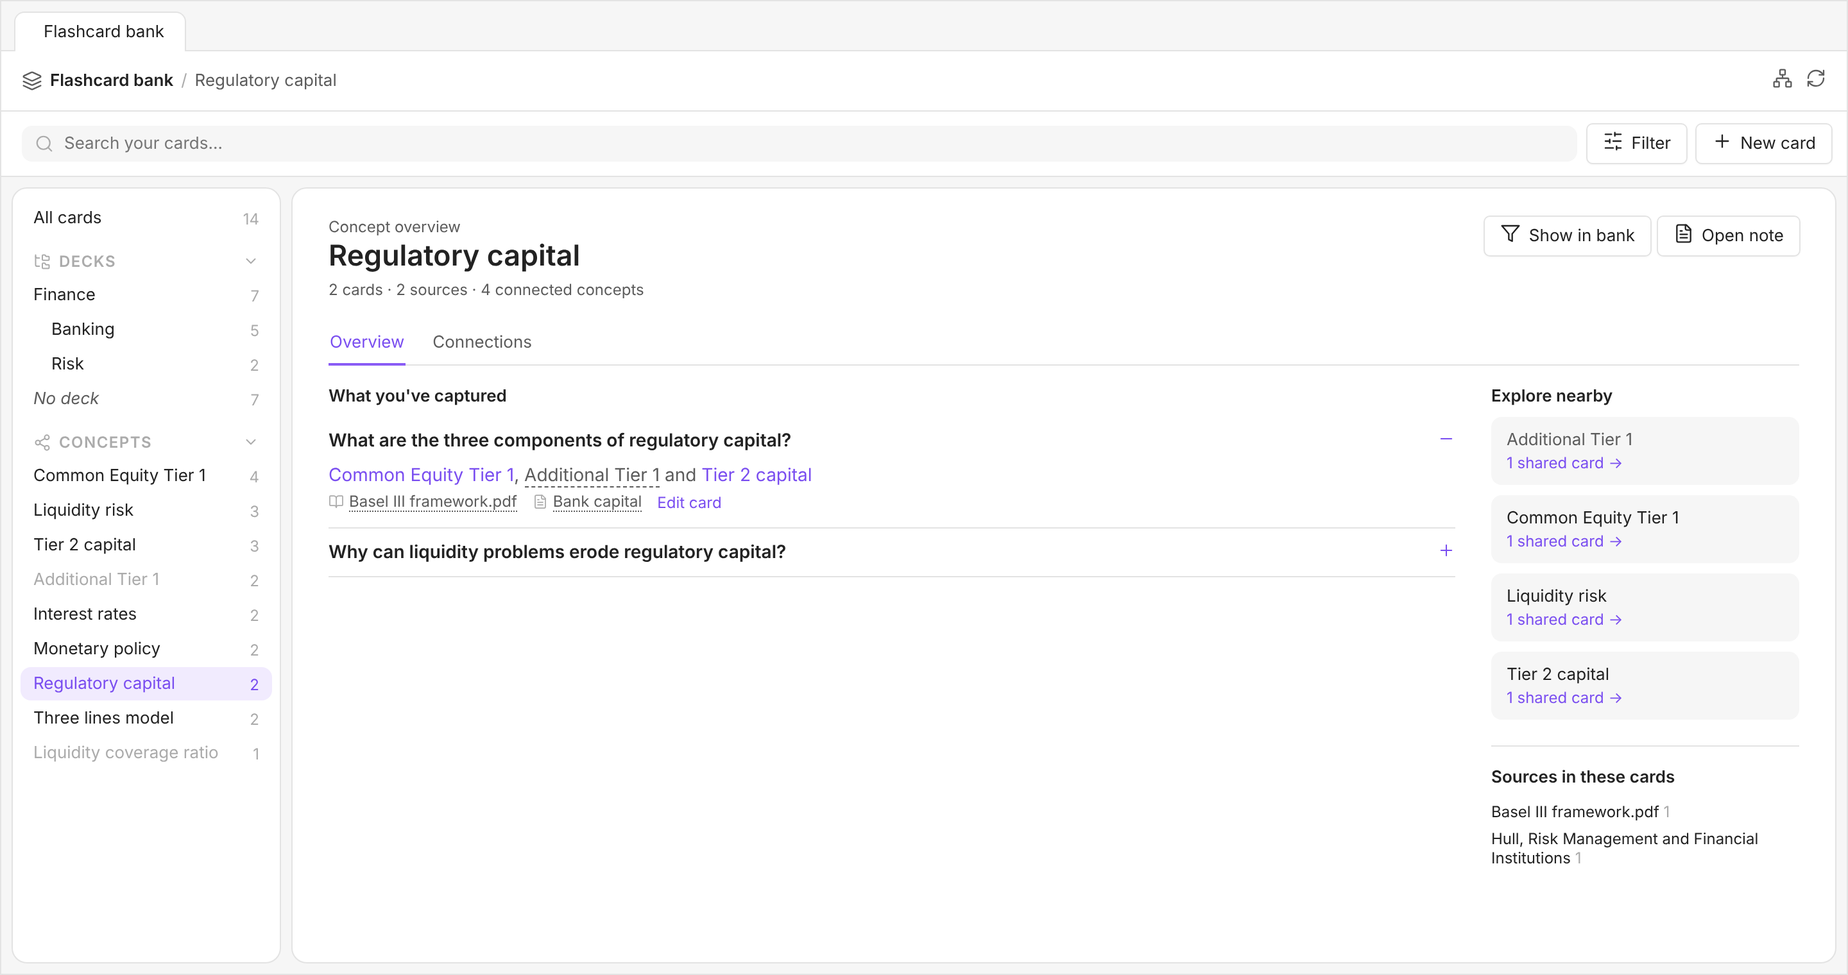
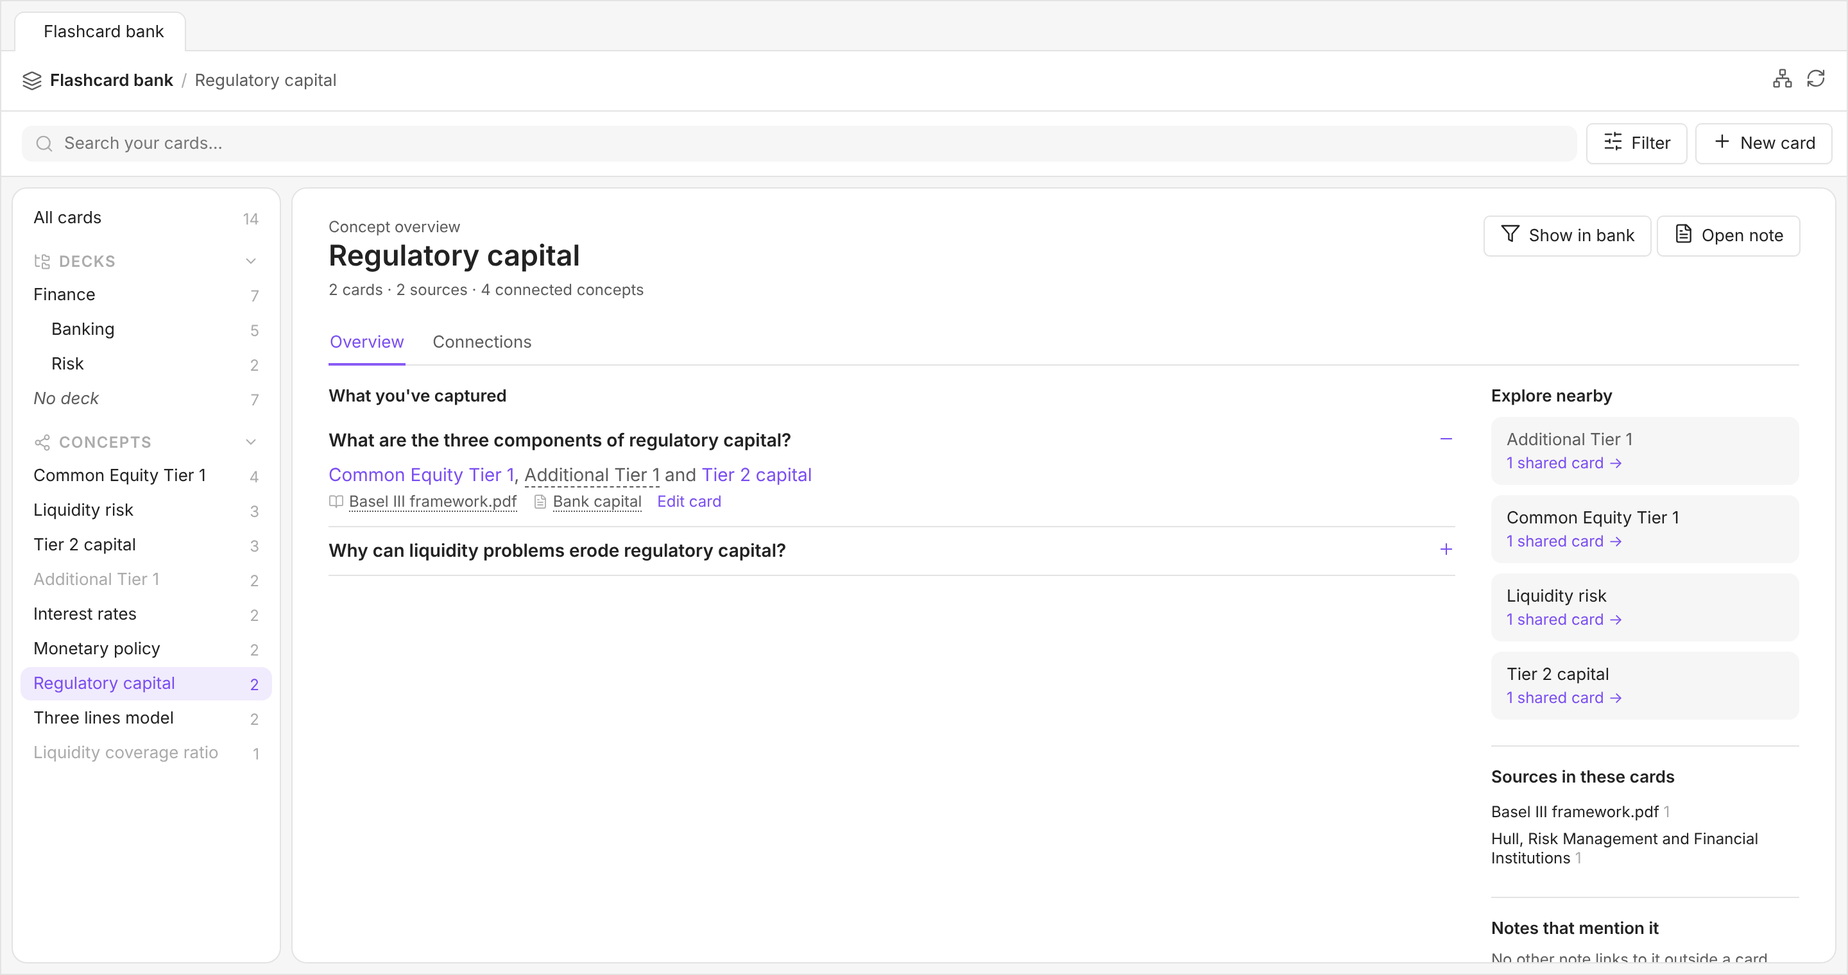
Release 1.4.0: notes that mention a concept, unanswered cards
- Concept pages list the notes that link to the concept outside their
  cards (Obsidian's resolved/unresolved links, matched like concepts;
  own note and excluded folders left out), counted in the stats line.
- Cards without an answer show "No answer yet" in the list; on concept
  pages with an "Answer it" link that opens the editor on the answer.
- Unanswered filter in the left panel, combinable with the others.
- Anki sync summary lists cards going to Anki without an answer.
- Folds in the unreleased 1.3.2 changes (labelled source/note links,
  filters bring back the list, map card goes back to the list).

Claude-Session: https://claude.ai/code/session_01W1zU3KSTWW1uK9WF7pcnHM

Changed region(s): [[0.1875, 0.5566, 0.4375, 0.5875], [0.8125, 0.9276, 0.9062, 0.9895]]

diff --git a/src/view.ts b/src/view.ts
@@ -32,6 +32,7 @@ export class BankView extends ItemView {
   private query = "";
   private concept = ""; // concept key, NO_CONCEPT, or "" for all
   private deck: string | null = null; // a deck (with its sub-decks), "" for cards without a deck, or null for all
+  private unanswered = false; // only cards without an answer
   private source = "";
   private note = "";
   private filtersOpen = false;
@@ -189,6 +190,9 @@ export class BankView extends ItemView {
     ro.observe(this.bodyEl);
     this.register(() => ro.disconnect());
 
+    // "Notes that mention it" on a concept page reads Obsidian's links, which change outside the cards too.
+    this.registerEvent(this.app.metadataCache.on("resolved", () => { if (this.pageKey) this.renderPage(); }));
+
     this.unsubscribe = this.store.onChange(() => {
       try {
         this.onStoreChange();
@@ -304,7 +308,7 @@ export class BankView extends ItemView {
     const home = el.createSpan({ cls: "bt-crumbs-home", text: "Flashcard bank" });
     const here = this.pageKey
       ? this.conceptName(this.pageKey)
-      : [this.deck === null ? "" : this.deckName(this.deck), this.concept ? this.conceptName(this.concept) : ""].filter(Boolean).join(" · ") || "All cards";
+      : [this.unanswered ? "Unanswered" : "", this.deck === null ? "" : this.deckName(this.deck), this.concept ? this.conceptName(this.concept) : ""].filter(Boolean).join(" · ") || "All cards";
     if (this.pageKey) {
       home.addClass("is-link");
       home.addEventListener("click", () => this.closePage());
@@ -350,7 +354,8 @@ export class BankView extends ItemView {
   }
 
   /** Does the card pass the filters? `skip` leaves out one of them (to count cards for its own list). */
-  private matches(c: Card, skip?: "deck" | "concept"): boolean {
+  private matches(c: Card, skip?: "deck" | "concept" | "unanswered"): boolean {
+    if (this.unanswered && skip !== "unanswered" && c.a.trim()) return false;
     if (this.concept && skip !== "concept" && !this.inConcept(c, this.concept)) return false;
     if (this.deck !== null && skip !== "deck" && !this.inDeck(c, this.deck)) return false;
     if (this.source && !this.store.sourcesOf(c).includes(this.source)) return false;
@@ -417,7 +422,14 @@ export class BankView extends ItemView {
     side.empty();
     const all = side.createDiv({ cls: "bt-tree bt-tree-all" });
     this.conceptsEl = all;
-    this.conceptRow("", "All cards", cards.length, "", !this.pageKey && !this.concept && this.deck === null, () => this.showAll());
+    this.conceptRow("", "All cards", cards.length, "", !this.pageKey && !this.concept && this.deck === null && !this.unanswered, () => this.showAll());
+    if (cards.some((c) => !c.a.trim())) {
+      const n = cards.filter((c) => !c.a.trim() && this.matches(c, "unanswered")).length;
+      const row = this.treeRow(all, "Unanswered", n, "bt-unanswered-row" + (n ? "" : " is-empty"), this.unanswered, () => this.setUnanswered(!this.unanswered));
+      setIcon(row.createSpan({ cls: "bt-tree-icon" }), "help-circle");
+      row.prepend(row.lastChild!);
+      row.setAttr("title", "Cards without an answer yet");
+    }
 
     // Decks (only when some card has one).
     if (decks.size) {
@@ -499,6 +511,7 @@ export class BankView extends ItemView {
   private showAll(): void {
     this.concept = "";
     this.deck = null;
+    this.unanswered = false;
     this.showList();
     if (this.pageKey) this.closePage();
     else {
@@ -510,6 +523,15 @@ export class BankView extends ItemView {
   /** Filter the bank by a concept (clicking the active one again clears it). Combines with the deck filter. */
   private setConcept(key: string): void {
     this.concept = this.concept === key && key !== "" ? "" : key;
+    this.showList();
+    if (this.pageKey) this.closePage(false);
+    this.renderConcepts();
+    this.renderList();
+  }
+
+  /** Show only the cards without an answer (combines with every other filter). */
+  private setUnanswered(on: boolean): void {
+    this.unanswered = on;
     this.showList();
     if (this.pageKey) this.closePage(false);
     this.renderConcepts();
@@ -547,6 +569,7 @@ export class BankView extends ItemView {
       setIcon(x, "x");
       x.addEventListener("click", clear);
     };
+    if (this.unanswered) chip("help-circle", "Unanswered", () => this.setUnanswered(false));
     if (this.deck !== null) chip("folder-tree", this.deckName(this.deck), () => this.setDeck(null));
     if (this.concept) {
       const key = this.concept;
@@ -568,7 +591,12 @@ export class BankView extends ItemView {
     const key = cardKey(c);
     const row = parent.createDiv({ cls: "bt-card" + (key === this.selKey ? " is-active" : "") });
     row.createDiv({ cls: "bt-card-q", text: readable(c.q) || "(no question)" });
-    if (c.a) row.createDiv({ cls: "bt-card-a", text: readable(c.a) });
+    if (c.a.trim()) row.createDiv({ cls: "bt-card-a", text: readable(c.a) });
+    else {
+      const na = row.createDiv({ cls: "bt-card-na" });
+      setIcon(na.createSpan(), "help-circle");
+      na.createSpan({ text: "No answer yet" });
+    }
     if (this.cfg.density === "expanded") {
       this.metaItems(row.createDiv({ cls: "bt-card-meta" }), c, true);
     }
@@ -586,7 +614,7 @@ export class BankView extends ItemView {
     const item = (icon: string, title: string) => {
       const i = el.createSpan({ cls: "bt-meta-item", attr: { "aria-label": title } });
       setIcon(i.createSpan({ cls: "bt-meta-icon" }), icon);
-      return i;
+      return i.createSpan({ cls: "bt-meta-val" }); // the text runs inline inside, so "[[A]], b" reads naturally
     };
     const link = (parent: HTMLElement, text: string, title: string, go: () => void) => {
       const a = parent.createSpan({ cls: "bt-meta-link", text });
@@ -745,13 +773,15 @@ export class BankView extends ItemView {
   }
 
   /** Leave the page and open a card in the editor, with the list showing the page's concept. */
-  private editFromPage(c: Card): void {
+  private editFromPage(c: Card, toAnswer = false): void {
     if (this.pageKey) {
       this.concept = this.pageKey;
       if (this.deck !== null && !this.inDeck(c, this.deck)) this.deck = null; // keep the card in sight
+      if (this.unanswered && c.a.trim()) this.unanswered = false;
       this.closePage();
     }
     this.selectCard(c);
+    if (toAnswer) this.editorEl.querySelector<HTMLElement>(".bt-a")?.focus();
   }
 
   private conceptCards(key: string): Card[] {
@@ -798,9 +828,10 @@ export class BankView extends ItemView {
     titles.createDiv({ cls: "bt-page-kicker", text: "Concept overview" });
     const h = titles.createDiv({ cls: "bt-page-title", text: k.name });
     if (!k.exists) h.createSpan({ cls: "bt-page-ghost", text: "no note yet" });
+    const mentions = this.notesMentioning(k);
     titles.createDiv({
       cls: "bt-page-stats",
-      text: [plural(cards.length, "card"), plural(sources.size, "source"), plural(near.length, "connected concept")].join(" · "),
+      text: [plural(cards.length, "card"), plural(sources.size, "source"), plural(near.length, "connected concept"), mentions.length ? plural(mentions.length, "note") : ""].filter(Boolean).join(" · "),
     });
     const acts = head.createDiv({ cls: "bt-page-actions" });
     const show = acts.createEl("button");
@@ -856,6 +887,15 @@ export class BankView extends ItemView {
           this.renderList();
         });
       }
+      side.createDiv({ cls: "bt-page-h bt-page-h-gap", text: "Notes that mention it" });
+      if (!mentions.length) side.createDiv({ cls: "bt-muted", text: "No other note links to it outside a card." });
+      for (const f of mentions) {
+        const row = side.createDiv({ cls: "bt-page-note" });
+        setIcon(row.createSpan(), "file-text");
+        row.createSpan({ text: f.basename });
+        row.setAttr("title", f.path);
+        row.addEventListener("click", () => { void this.app.workspace.getLeaf("tab").openFile(f); });
+      }
     } else {
       const box = el.createDiv({ cls: "bt-conns" });
       box.createDiv({ cls: "bt-muted bt-conns-hint", text: "Cards that link " + k.name + " to another concept. Open a card to read its answer, or click a concept to go to its page." });
@@ -874,6 +914,40 @@ export class BankView extends ItemView {
     el.scrollTop = keep;
   }
 
+  /**
+   * The notes that link to a concept outside their cards, alphabetically. Links
+   * are matched like concepts (display names and headings lead to the same note;
+   * a concept without a note is matched by name). The concept's own note and
+   * excluded folders are left out.
+   */
+  private notesMentioning(k: Concept): TFile[] {
+    const mc = this.app.metadataCache;
+    const sources = new Set<string>();
+    if (k.exists) {
+      for (const [src, dests] of Object.entries(mc.resolvedLinks)) if (dests[k.key]) sources.add(src);
+    } else {
+      for (const [src, dests] of Object.entries(mc.unresolvedLinks)) {
+        if (Object.keys(dests).some((d) => this.store.conceptOf({ raw: d, linkpath: d.split("#")[0] ?? d, blockId: null, alias: "" }, src).key === k.key)) sources.add(src);
+      }
+    }
+    const out: TFile[] = [];
+    for (const path of sources) {
+      if (path === k.key || this.store.excluded(path)) continue;
+      const f = this.app.vault.getAbstractFileByPath(path);
+      if (!(f instanceof TFile)) continue;
+      const cards = this.store.byPath.get(path) || [];
+      const inCard = (line: number) => cards.some((c) => line >= c.line && line <= c.endLine);
+      const links = mc.getFileCache(f)?.links || [];
+      const outside = links.some((l) => {
+        if (inCard(l.position.start.line) || l.link.includes("#^")) return false; // inside a card, or a link to a card
+        const linkpath = l.link.split("#")[0] ?? "";
+        return !!linkpath.trim() && this.store.conceptOf({ raw: l.original, linkpath, blockId: null, alias: "" }, path).key === k.key;
+      });
+      if (outside) out.push(f);
+    }
+    return out.sort((a, b) => a.basename.localeCompare(b.basename));
+  }
+
   /** A card on the concept page: the question, with the answer and its details shown on click. */
   private pageCard(parent: HTMLElement, c: Card, mark: string, where: string): void {
     const key = where + "\n" + cardKey(c); // the same card can show in several places, each opens on its own
@@ -883,7 +957,14 @@ export class BankView extends ItemView {
     head.createSpan({ cls: "bt-pc-q", text: readable(c.q) || "(no question)" });
     const tog = head.createSpan({ cls: "bt-pc-toggle" });
     const body = item.createDiv({ cls: "bt-pc-body" });
-    this.richText(body.createDiv({ cls: "bt-pc-a" }), c.a || "(no answer)", c.path);
+    if (c.a.trim()) this.richText(body.createDiv({ cls: "bt-pc-a" }), c.a, c.path);
+    else {
+      const na = body.createDiv({ cls: "bt-pc-na" });
+      setIcon(na.createSpan(), "help-circle");
+      na.createSpan({ text: "No answer yet · " });
+      const go = na.createSpan({ cls: "bt-pc-answer", text: "Answer it" });
+      go.addEventListener("click", (e) => { e.stopPropagation(); this.editFromPage(c, true); });
+    }
     const meta = body.createDiv({ cls: "bt-pc-meta" });
     this.metaItems(meta, c, false);
     const edit = meta.createSpan({ cls: "bt-pc-edit", text: "Edit card" });

diff --git a/styles.css b/styles.css
@@ -238,6 +238,16 @@
 .bt-card.is-active { background: var(--bt-tint); border-left-color: var(--interactive-accent); }
 .bt-card-q { font-weight: var(--font-semibold); }
 .bt-card-a { color: var(--text-muted); font-size: var(--font-ui-small); margin-top: 2px; }
+.bt-card-na, .bt-pc-na { display: flex; align-items: center; gap: 5px; font-style: italic; color: var(--text-faint); font-size: var(--font-ui-small); margin-top: 2px; }
+.bt-card-na svg, .bt-pc-na svg { width: 13px; height: 13px; }
+.bt-pc-answer { font-style: normal; color: var(--text-accent); cursor: pointer; }
+.bt-pc-answer:hover { text-decoration: underline; }
+.bt-tree-row .bt-tree-icon { display: inline-flex; color: var(--text-faint); }
+.bt-tree-row.is-active .bt-tree-icon { color: var(--text-accent); }
+.bt-root .bt-tree-icon svg { width: 14px; height: 14px; }
+.bt-page-note { display: flex; align-items: center; gap: 6px; font-size: var(--font-ui-smaller); padding: 3px 0; cursor: pointer; }
+.bt-page-note:hover { color: var(--text-accent); }
+.bt-page-note svg { width: 13px; height: 13px; flex: none; color: var(--text-faint); }
 .bt-list:not(.is-expanded) .bt-card-q,
 .bt-list:not(.is-expanded) .bt-card-a { overflow: hidden; text-overflow: ellipsis; white-space: nowrap; }
 .bt-card-meta, .bt-pc-meta { display: flex; flex-wrap: wrap; align-items: center; gap: 4px 12px; font-size: var(--font-ui-smaller); color: var(--text-faint); margin-top: 4px; }
@@ -447,6 +457,8 @@ textarea.bt-input { resize: vertical; font-family: inherit; }
 .bt-sync-section ul { margin: 0; padding-left: 20px; font-size: var(--font-ui-small); color: var(--text-muted); }
 .bt-sync-danger { border-left: 3px solid var(--color-red); padding-left: 10px; }
 .bt-sync-danger .bt-sync-title { color: var(--color-red); }
+.bt-sync-warn { border-left: 3px solid var(--color-orange); padding-left: 10px; }
+.bt-sync-warn .bt-sync-title { color: var(--color-orange); }
 .bt-sync-section.is-muted { opacity: 0.75; }
 .bt-sync-more { font-style: italic; }
 .bt-sync-section.is-full ul { max-height: 220px; overflow-y: auto; }

diff --git a/src/ankiui.ts b/src/ankiui.ts
@@ -174,6 +174,13 @@ class SyncModal extends Modal {
       note: noteOf(u.card.key),
     })));
     this.section(el, "Will be re-created (their Anki note no longer exists)", p.recreate.map((c) => ({ text: c.q, note: noteOf(c.key) })));
+    // Cards going to Anki without an answer: they're synced, but their back will be empty.
+    const blank = p.create.concat(p.recreate, p.update.filter((u) => u.fields).map((u) => u.card))
+      .filter((c) => !c.back.trim())
+      .map((c) => ({ text: c.q, note: noteOf(c.key) }))
+      .concat(this.noId.filter((c) => !c.a.trim()).map((c) => ({ text: plainValue(c.q), note: noteOf(c.path) })));
+    const warn = this.section(el, "No answer yet: their back in Anki will be empty", blank, "is-warning", true);
+    warn?.addClass("bt-sync-warn");
     if (p.remove.length) {
       const items = p.remove.map((r) => ({
         text: r.q + (r.reason === "no-deck" ? " — its Deck was cleared" : " — no longer in Obsidian"),

diff --git a/README.md b/README.md
@@ -112,9 +112,9 @@ Since they're ordinary links, concepts also work outside the plugin: a concept n
 |------|--------------|
 | **Header** | Where you are (*All cards*, the deck and concept you're filtering by, or a concept page), plus two buttons: the **concept map** and **Sync with Anki**. |
 | **Search bar** | Searches questions, answers and every field. **Filter** opens a source filter (each linked file, plus any plain-text source) and a note filter; the button shows how many are on. **New card** opens an empty card. |
-| **Decks and concepts** (left) | *All cards* at the top shows the whole bank and clears the deck and concept filters. Below it, two sections you can fold (the plugin remembers which are open). **Decks** lists every Anki deck your cards use, with sub-decks indented under their parent (`Finance::Banking` under *Finance*); click one to show its cards, sub-decks included. *No deck* lists the cards that aren't synced with Anki. The section only appears when some card has a deck. **Concepts** lists every concept, most-used first: click a name to open its [concept page](#concept-pages), or the filter icon next to it to filter the list instead. *No concepts* lists the cards that don't link to any. |
+| **Decks and concepts** (left) | *All cards* at the top shows the whole bank and clears the deck, concept and *Unanswered* filters. *Unanswered*, right below it, shows the cards that don't have an answer yet (it appears when there's at least one). Below it, two sections you can fold (the plugin remembers which are open). **Decks** lists every Anki deck your cards use, with sub-decks indented under their parent (`Finance::Banking` under *Finance*); click one to show its cards, sub-decks included. *No deck* lists the cards that aren't synced with Anki. The section only appears when some card has a deck. **Concepts** lists every concept, most-used first: click a name to open its [concept page](#concept-pages), or the filter icon next to it to filter the list instead. *No concepts* lists the cards that don't link to any. |
 | **Filters** | A deck and a concept filter combine (for example, the *Regulatory capital* cards in *Finance::Banking*), and they also combine with the search and the source and note filters. The active ones show as chips above the list, each with its own ×; a concept chip's name opens the concept's page. The numbers next to each deck and concept count the cards that the other filters leave, and the ones with none are dimmed. |
-| **List** (middle) | The matching cards, as plain text. **Compact** shows one line of question and one of answer; **Expanded** shows them in full, with the source, deck and note (each with its icon), the number of related cards, and **no id** when the card has no block id. A source that's a `[[link]]` opens its note when clicked, and the note's name opens the note at the card. Both show the card's Anki status (*Anki: new*, *Anki: changed*, *Synced with Anki*, *Anki: will be deleted*). The choice is remembered. |
+| **List** (middle) | The matching cards, as plain text. A card without an answer shows *No answer yet* in its place. **Compact** shows one line of question and one of answer; **Expanded** shows them in full, with the source, deck and note (each with its icon), the number of related cards, and **no id** when the card has no block id. A source that's a `[[link]]` opens its note when clicked, and the note's name opens the note at the card. Both show the card's Anki status (*Anki: new*, *Anki: changed*, *Synced with Anki*, *Anki: will be deleted*). The choice is remembered. |
 | **Map** | The concept map of the open card, under the list. The card is on the left, its concepts in the middle, and the other cards that mention each concept on the right. A card sharing several concepts is drawn once with a line from each, so the cards that bridge concepts stand out. Related cards get ↔, or a dashed line when they share no concept. Clicking a card centers the map on it; clicking a concept opens its page; clicking the open card (on the left) takes you back to it in the list. The map shrinks to fit the column; **Expand** in its header hides the list so the map gets the whole middle column, and **Back to list** restores it. Changing a filter or searching also brings the list back, so you see the result. |
 | **Editor** (right) | Opens when you click a card. |
 
@@ -128,7 +128,7 @@ Clicking a concept opens a page that brings together everything your cards say a
 
 ![A concept page: the cards about Regulatory capital, nearby concepts and sources](images/concept-page.png)
 
-- **Overview**: the cards that mention the concept (click a question to show its answer, its source and the note it's in, and **Edit card** to open it in the editor; a linked source and the note open when clicked), the concepts that share cards with it under **Explore nearby**, with how many cards they share, and the sources those cards cite. Clicking a source shows the bank filtered by the concept and that source.
+- **Overview**: the cards that mention the concept (click a question to show its answer, its source and the note it's in, and **Edit card** to open it in the editor; a linked source and the note open when clicked), the concepts that share cards with it under **Explore nearby**, with how many cards they share, and the sources those cards cite. Clicking a source shows the bank filtered by the concept and that source. A card without an answer shows *No answer yet* with an **Answer it** link, which opens it in the editor with the cursor in the answer. Under the sources, **Notes that mention it** lists the other notes that link to the concept outside their cards (the concept's own note and excluded folders aside); click one to open it. The line under the title counts them.
 - **Connections**: for each concept that shares cards with this one, the cards that link the two. Click a card to read its answer, or the other concept to go to its page.
 - **Show in bank** filters the list by the concept; **Open note** opens the concept's note (or **Create note**, if it doesn't exist yet).
 
@@ -213,7 +213,7 @@ Click **Sync with Anki** (the circular arrows at the top of the bank), or run **
 - **Will be re-created**: synced cards whose Anki note was deleted by hand.
 - **Will be deleted from Anki**: cards whose deck was cleared, or that were deleted from Obsidian. This also deletes their review history in Anki, so the button then reads **Sync and delete N**. Nothing outside this list is ever deleted.
 
-The **created** and **deleted** lists show every card, with its note; cards that are no longer in Obsidian are named by their question as it is in Anki.
+Cards without an answer are synced too, with an empty back: the summary lists them under **No answer yet** so you can answer them first if you prefer. The **created** and **deleted** lists show every card, with its note; cards that are no longer in Obsidian are named by their question as it is in Anki.
 
 Cancel and nothing happens. If everything is already in sync, you just get a notice.
 

diff --git a/CHANGELOG.md b/CHANGELOG.md
@@ -2,7 +2,14 @@
 
 All notable changes to Flashcard Bank are recorded here. Versions follow [Semantic Versioning](https://semver.org/).
 
-## 1.3.2 — 2026-10-20
+## 1.4.0 — 2026-10-21
+
+### New
+
+- **Notes that mention a concept.** A concept page now lists, under its sources, the other notes that link to the concept outside their cards, and the line under the title counts them. Click one to open it. Links are matched like concepts (display names and headings lead to the same note), and the concept's own note and excluded folders are left out.
+- **Unanswered cards stand out.** A card without an answer shows *No answer yet* in the list, and on concept pages with an **Answer it** link that opens it in the editor, ready to type the answer.
+- **Unanswered filter.** In the left panel, right under *All cards*, with how many cards are left to answer. It combines with the deck, concept and other filters.
+- **Anki warning for cards without an answer.** They're still synced (with an empty back), but the sync summary lists them under **No answer yet**, so you can answer them before syncing if you prefer.
 
 ### Fixed
 
